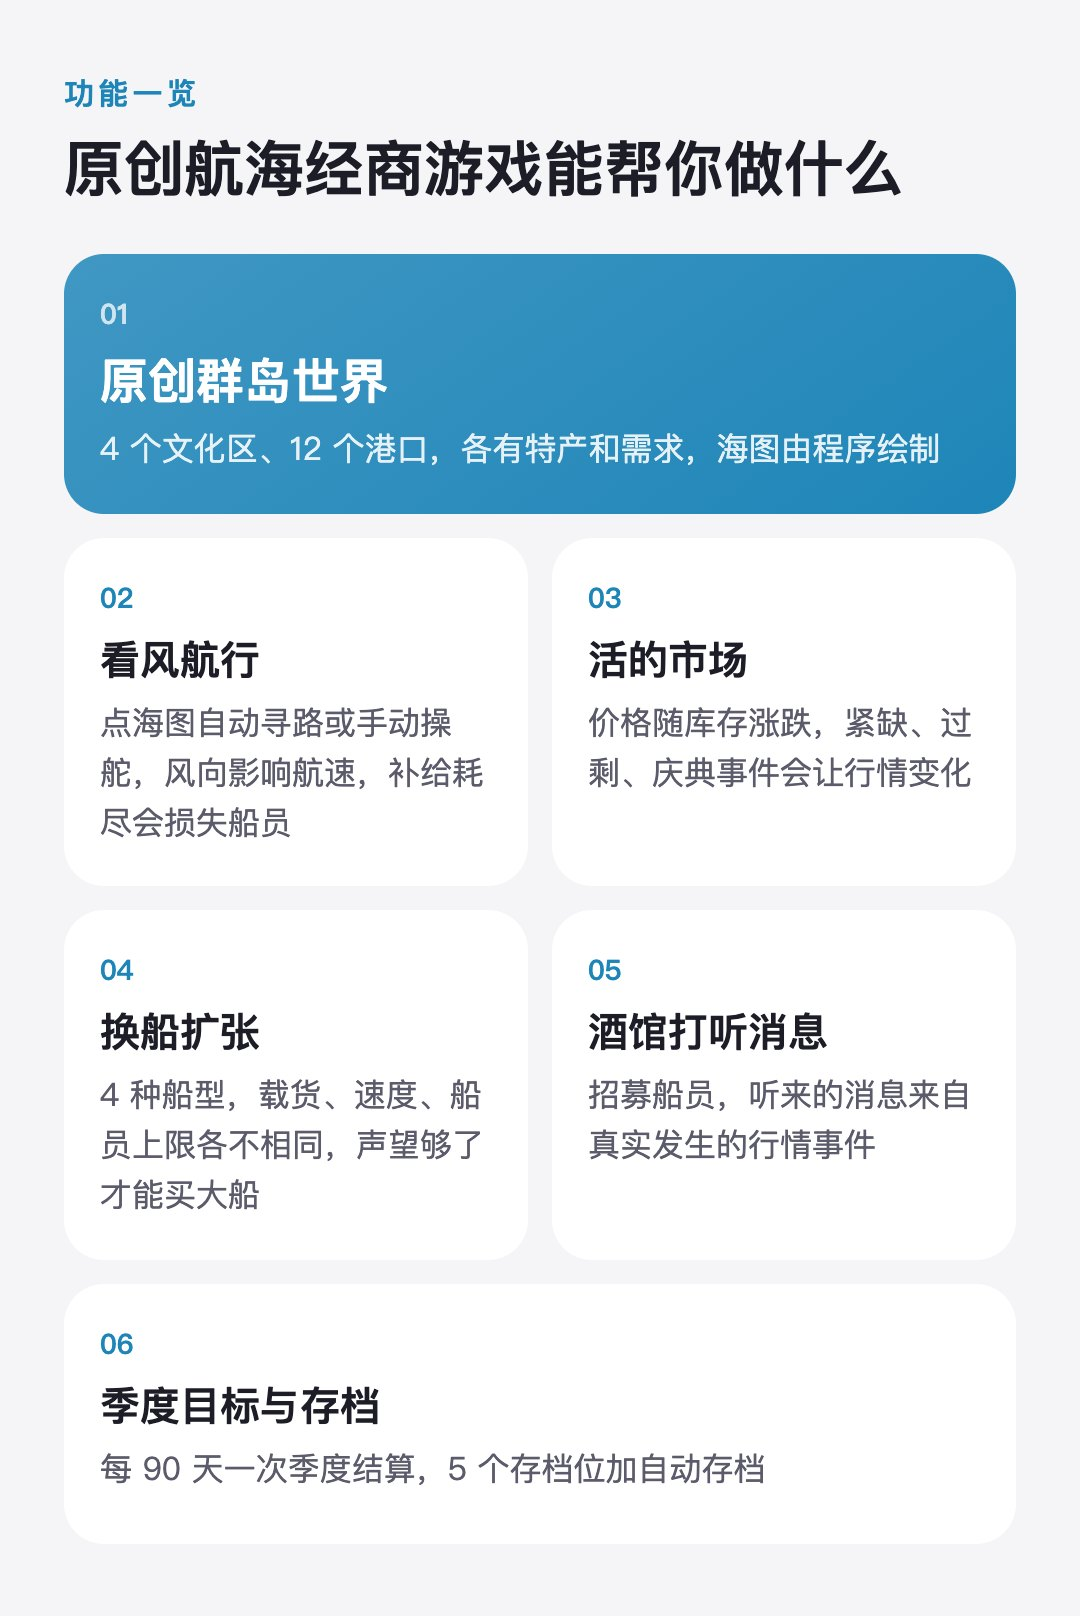
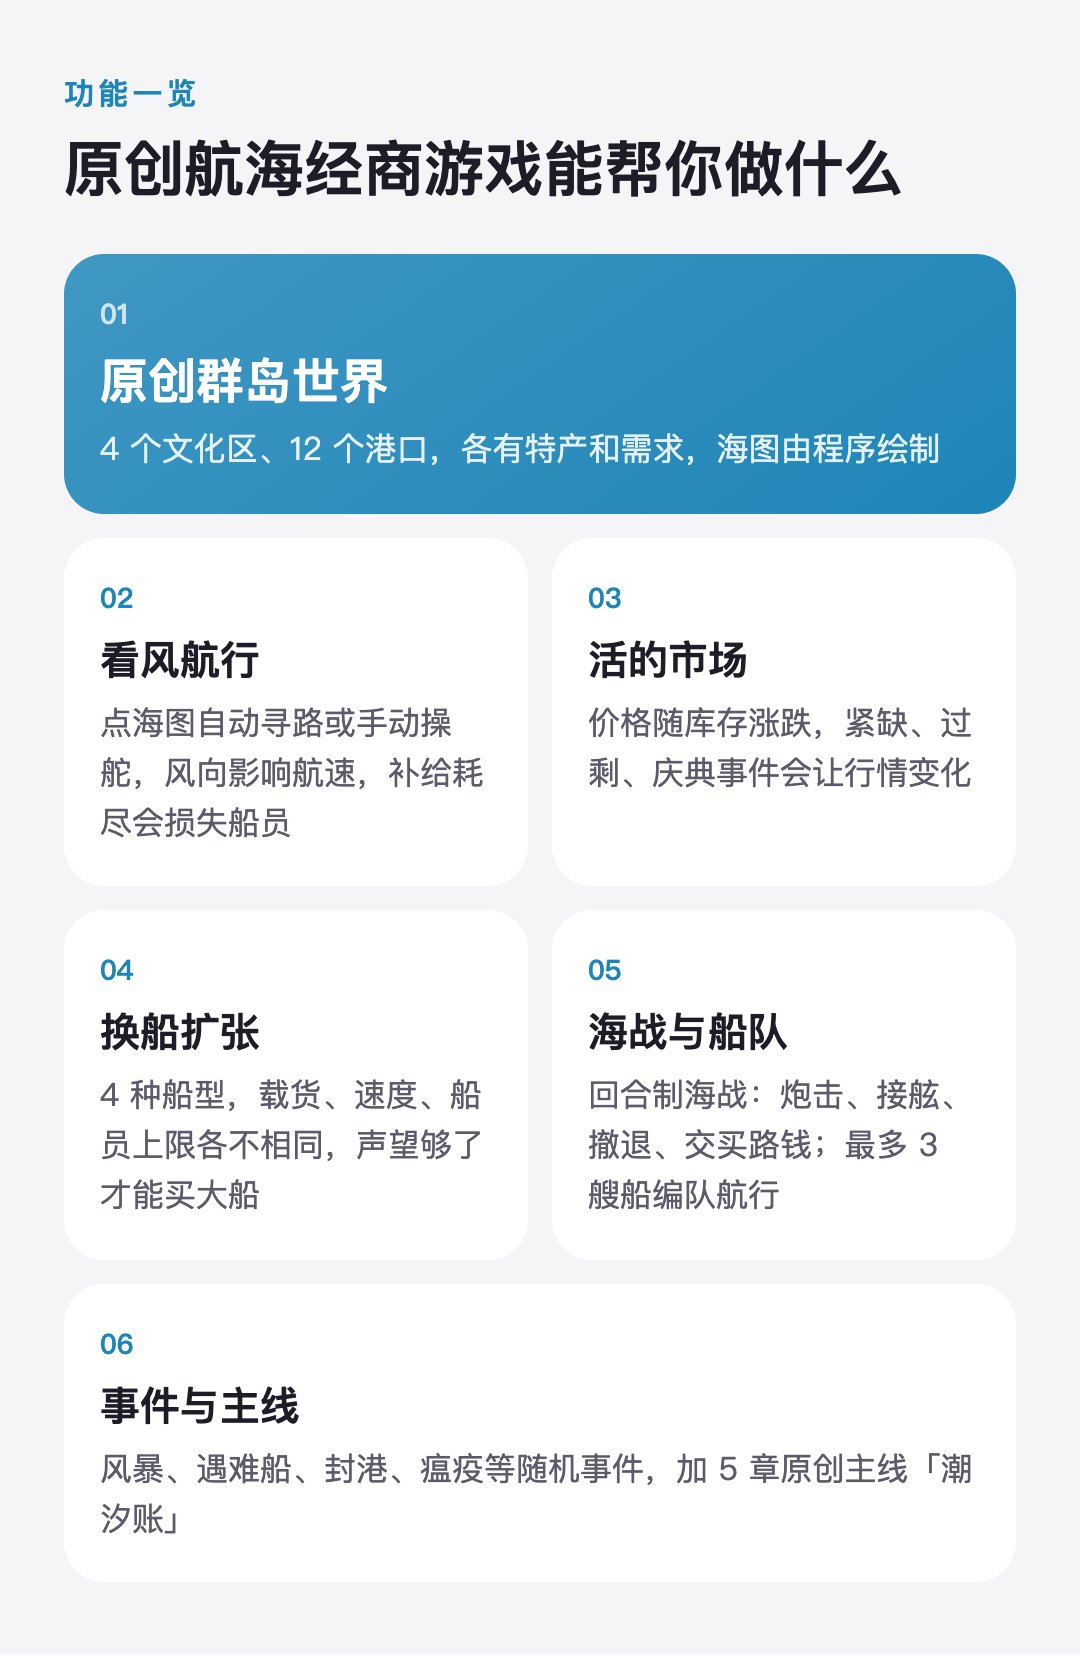
个人应用重构完成：游戏 0.2.0、e01 上架，进度与交接更新

diff --git a/catalog/store-listing.md b/catalog/store-listing.md
@@ -32,10 +32,11 @@
 | o28 | [笔记知识星图](https://github.com/campfire-code/notes-star-map) | 导入自己的笔记，生成能点能拖的知识星空图，看清知识之间的联系 | 桌面安装包 | 0.1.0 | [看图](https://raw.githubusercontent.com/campfire-code/notes-star-map/main/docs/screenshot.png) | [macOS Apple 芯片 / macOS Intel / Windows](https://github.com/campfire-code/notes-star-map/releases/tag/v0.1.0) |  |
 | o29 | [定时任务看板](https://github.com/campfire-code/cron-task-board) | 监控本机定时脚本的运行日志与产出文件，30 天运行热力图 | 桌面安装包 | 0.1.0 | [看图](https://raw.githubusercontent.com/campfire-code/cron-task-board/main/docs/screenshot.png) | [macOS Apple 芯片 / macOS Intel / Windows](https://github.com/campfire-code/cron-task-board/releases/tag/v0.1.0) |  |
 
-## 电商运营（27 个）
+## 电商运营（28 个）
 
 | 编号 | 名称 | 一句话简介 | 交付形式 | 版本 | 截图 | 下载 | 价格 |
 |---|---|---|---|---|---|---|---|
+| e01 | [1688 拼多多铺货助手](https://github.com/campfire-code/1688-to-pdd-listing) | 浏览器插件采集 1688 / 淘宝 / 天猫商品，整理类目与规格，自动填拼多多后台草稿或导出上架数据包 | 桌面安装包 | 0.1.0 | [看图](https://raw.githubusercontent.com/campfire-code/1688-to-pdd-listing/main/docs/screenshot.png) | [macOS Apple 芯片 / macOS Intel / Windows](https://github.com/campfire-code/1688-to-pdd-listing/releases/tag/v0.1.0) |  |
 | e03 | [主图一键白底（批量）](https://github.com/campfire-code/bg-remover-batch) | 本地抠图，整个文件夹一次处理 | 桌面安装包 | 0.2.0 | [看图](https://raw.githubusercontent.com/campfire-code/bg-remover-batch/main/docs/screenshot.png) | [macOS Apple 芯片 / macOS Intel / Windows](https://github.com/campfire-code/bg-remover-batch/releases/tag/v0.2.0) |  |
 | e04 | [高清商品抠图](https://github.com/campfire-code/hd-product-cutout) | 发丝、透明件等难抠的商品 | 桌面安装包 | 0.2.0 | [看图](https://raw.githubusercontent.com/campfire-code/hd-product-cutout/main/docs/screenshot.png) | [macOS Apple 芯片 / macOS Intel / Windows](https://github.com/campfire-code/hd-product-cutout/releases/tag/v0.2.0) |  |
 | e05 | [商品短视频去背景](https://github.com/campfire-code/video-bg-remover) | 视频逐帧去背景 | 桌面安装包 | 0.2.0 | [看图](https://raw.githubusercontent.com/campfire-code/video-bg-remover/main/docs/screenshot.png) | [macOS Apple 芯片 / macOS Intel / Windows](https://github.com/campfire-code/video-bg-remover/releases/tag/v0.2.0) |  |
@@ -123,7 +124,7 @@
 
 | 编号 | 名称 | 一句话简介 | 交付形式 | 版本 | 截图 | 下载 | 价格 |
 |---|---|---|---|---|---|---|---|
-| x01 | [原创航海经商游戏](https://github.com/campfire-code/ocean-trade-voyage) | 原创世界的像素风航海经商游戏：航行、靠港、贸易、造船、海战 | 桌面安装包 | 0.1.0 | [看图](https://raw.githubusercontent.com/campfire-code/ocean-trade-voyage/main/docs/screenshot.png) | [macOS Apple 芯片 / macOS Intel / Windows](https://github.com/campfire-code/ocean-trade-voyage/releases/tag/v0.1.0) |  |
+| x01 | [原创航海经商游戏](https://github.com/campfire-code/ocean-trade-voyage) | 原创世界的像素风航海经商游戏：航行、靠港、贸易、造船、海战 | 桌面安装包 | 0.2.0 | [看图](https://raw.githubusercontent.com/campfire-code/ocean-trade-voyage/main/docs/screenshot.png) | [macOS Apple 芯片 / macOS Intel / Windows](https://github.com/campfire-code/ocean-trade-voyage/releases/tag/v0.2.0) |  |
 
 ## AI 助手（9 个）
 

diff --git a/docs/进度交接.md b/docs/进度交接.md
@@ -12,12 +12,14 @@
 - 用户要求：**超级会员才能免费领**，会员前期只靠兑换码（年卡 365 天，首批码先不生成）。campfire 侧「会员专享商品 + 我的页兑换会员入口」已开发（campfire 本地提交 f947165），**部署、录入 o26、设需要档位由 campfire-c1 会话接手**。
 - Windows 版未经真机人工验收（README 原文），已写进上架须知。
 
-## 最新（2026-10-27 下午）：用户个人应用重构（循环进行中）
+## 最新（2026-10-27 晚）：用户个人应用重构（已完成）
 
 - 用户接受了 hankyan2010 的 26 个私有仓库邀请，源码 clone 在 `ref-src/`（已 gitignore）。拍板页 https://claude.ai/artifact/HVHBknwcLfd1JuB9JtZ7Hs（`decisions/apps26`：21 个重做上架、5 个并入；高风险也全部上架；反编译的两个按功能从零重写；并入类以个人仓库代码为主）。
 - 方案与进度表：`docs/个人应用重构方案.md`（本机，gitignore）；子任务说明 `docs/agent-brief-own.md` + `docs/agent-brief-personal.md`（署名不写参考仓库、Windows 换行用 .gitattributes）。
 - 循环：本会话定时任务每小时 17 / 52 分触发，按进度表派下一批（同时 ≤3 个子任务，额度 ≥80% 停手）。`usage-tap.json` 会被其他会话覆盖成很低的读数，以本会话持续上涨的那条为准。
-- 已发布 0.1.0：c33 o27 c34 o28 o29 a07 c35 c36 e35（e33 待核对、w30 出包中）；开发中：a10 a08。文案 `catalog/copy/<编号>.json` 已写，**上架图 / 上架清单 / 应用区录入还没做**（等这一轮发完统一 gen-style → gen-art → gen-covers → gen-listing → seed-toolkit-apps.mjs `ONLY=`）。
+- 全部完成：c33 o27 c34 w29 o28 a07 c35 o29 e33 a08 a09 e34 e35 e36 c36 w30 a10 w31 与 e01（1688 拼多多铺货助手，原「等用户提供模板」已解决）发布 0.1.0 并上架；x01 原创航海经商游戏 0.2.0 上架（新分类「休闲游戏」）；w02 升 0.3.0（并入公众号写稿发布与口播转图文）；w26 改为自出包 2.8.0-campfire.2（新增 AI 回复与关键词规则回复，洁净室），仍是 repo-only 未上架。生产在售 117。
+- 待用户：w16 并入「硬件收短信」需确认原作者署名授权；w26 是否上架。
+- 应用区录入由本仓库会话直接跑 campfire `scripts/seed-toolkit-apps.mjs`（`ONLY=` / `UPDATE=1`）；资料手册类在 SPECIAL 里有单独的标签与说明。
 
 ## 总体状态
 
@@ -79,7 +81,7 @@
 ## 等用户处理
 
 1. **docker 镜像设为 Public**（GitHub 无接口）：w05 dify-wecom-connector、w03 wecom-group-ai-bot、w04 wecom-ai-service、w28 bot-hub、e23 xianyu-monitor、c30 douyin-downloader。打开 `https://github.com/orgs/campfire-code/packages/container/<slug>/settings` → Change visibility → Public；或组织设置 → Packages 把默认可见性设为 Public。
-2. 提供 e01 拼多多、e02 Temu 上品模板，o01 真实电子发票。
+2. 提供 e02 Temu 上品模板，o01 真实电子发票（e01 已用用户的拼多多铺货代码做完）。
 3. （已完成）73 个工具已免费上架到生产应用区。
 4. SignPath 申请（Windows 签名）。
 

diff --git a/README.md b/README.md
@@ -54,7 +54,7 @@
 | 编号 | 工具 | 能做什么 | 仓库 | 基于 | 风险 | 状态 | 安装包 |
 |---|---|---|---|---|---|---|---|
 | w01 | 公众号一键排版器 | Markdown 转公众号样式，多套主题 | [wechat-md-formatter](https://github.com/campfire-code/wechat-md-formatter) | [doocs/md](https://github.com/doocs/md) · WTFPL | 低 | 已发布 | [下载](https://github.com/campfire-code/wechat-md-formatter/releases/tag/v2.1.0-campfire.2) |
-| w02 | AI 写稿直发公众号草稿箱 | 写稿、排版后推到草稿箱，走公众号官方接口 | [wechat-draft-publisher](https://github.com/campfire-code/wechat-draft-publisher) | [caol64/wenyan-mcp](https://github.com/caol64/wenyan-mcp) · Apache-2.0 | 低 | 已发布 | [下载](https://github.com/campfire-code/wechat-draft-publisher/releases/tag/v0.2.0) |
+| w02 | AI 写稿直发公众号草稿箱 | 写稿、排版后推到草稿箱，走公众号官方接口 | [wechat-draft-publisher](https://github.com/campfire-code/wechat-draft-publisher) | [caol64/wenyan-mcp](https://github.com/caol64/wenyan-mcp) · Apache-2.0 | 低 | 已发布 | [下载](https://github.com/campfire-code/wechat-draft-publisher/releases/tag/v0.3.0) |
 | w03 | 企微群 AI 答疑机器人 | 企业微信群机器人接大模型 + 知识库 | [wecom-group-ai-bot](https://github.com/campfire-code/wecom-group-ai-bot) | [easy-wx/wecom-bot-svr](https://github.com/easy-wx/wecom-bot-svr) · MIT | 低 | 已发布 | [下载](https://github.com/campfire-code/wecom-group-ai-bot/releases/tag/v0.3.4-campfire.1) |
 | w04 | 企微 / 公众号 AI 客服 | 多渠道 AI 客服，只启用官方通道 | [wecom-ai-service](https://github.com/campfire-code/wecom-ai-service) | [zhayujie/CowAgent](https://github.com/zhayujie/CowAgent) · MIT | 低 | 已发布 | [下载](https://github.com/campfire-code/wecom-ai-service/releases/tag/v2.2.1-campfire.2) |
 | w05 | Dify 知识库客服接入器 | 把 Dify 知识库接到企微 | [dify-wecom-connector](https://github.com/campfire-code/dify-wecom-connector) | [hanfangyuan4396/dify-on-wechat](https://github.com/hanfangyuan4396/dify-on-wechat) · MIT | 中 | 已发布 | [下载](https://github.com/campfire-code/dify-wecom-connector/releases/tag/v0.1.26-campfire.1) |
